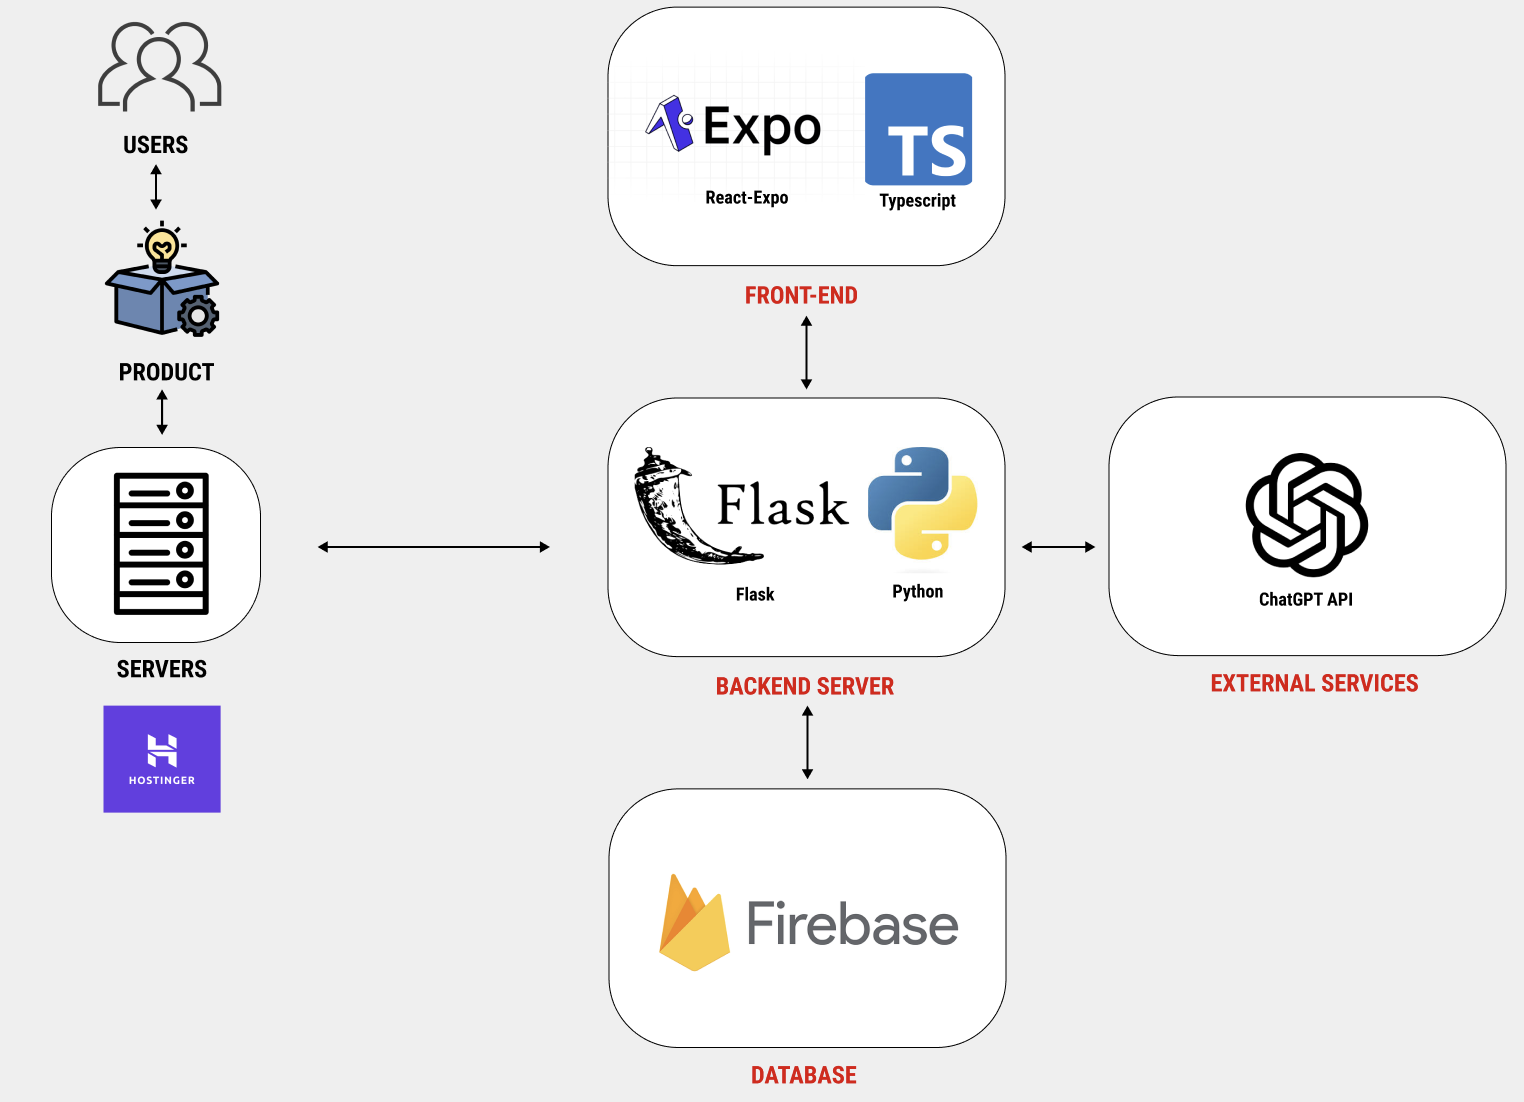
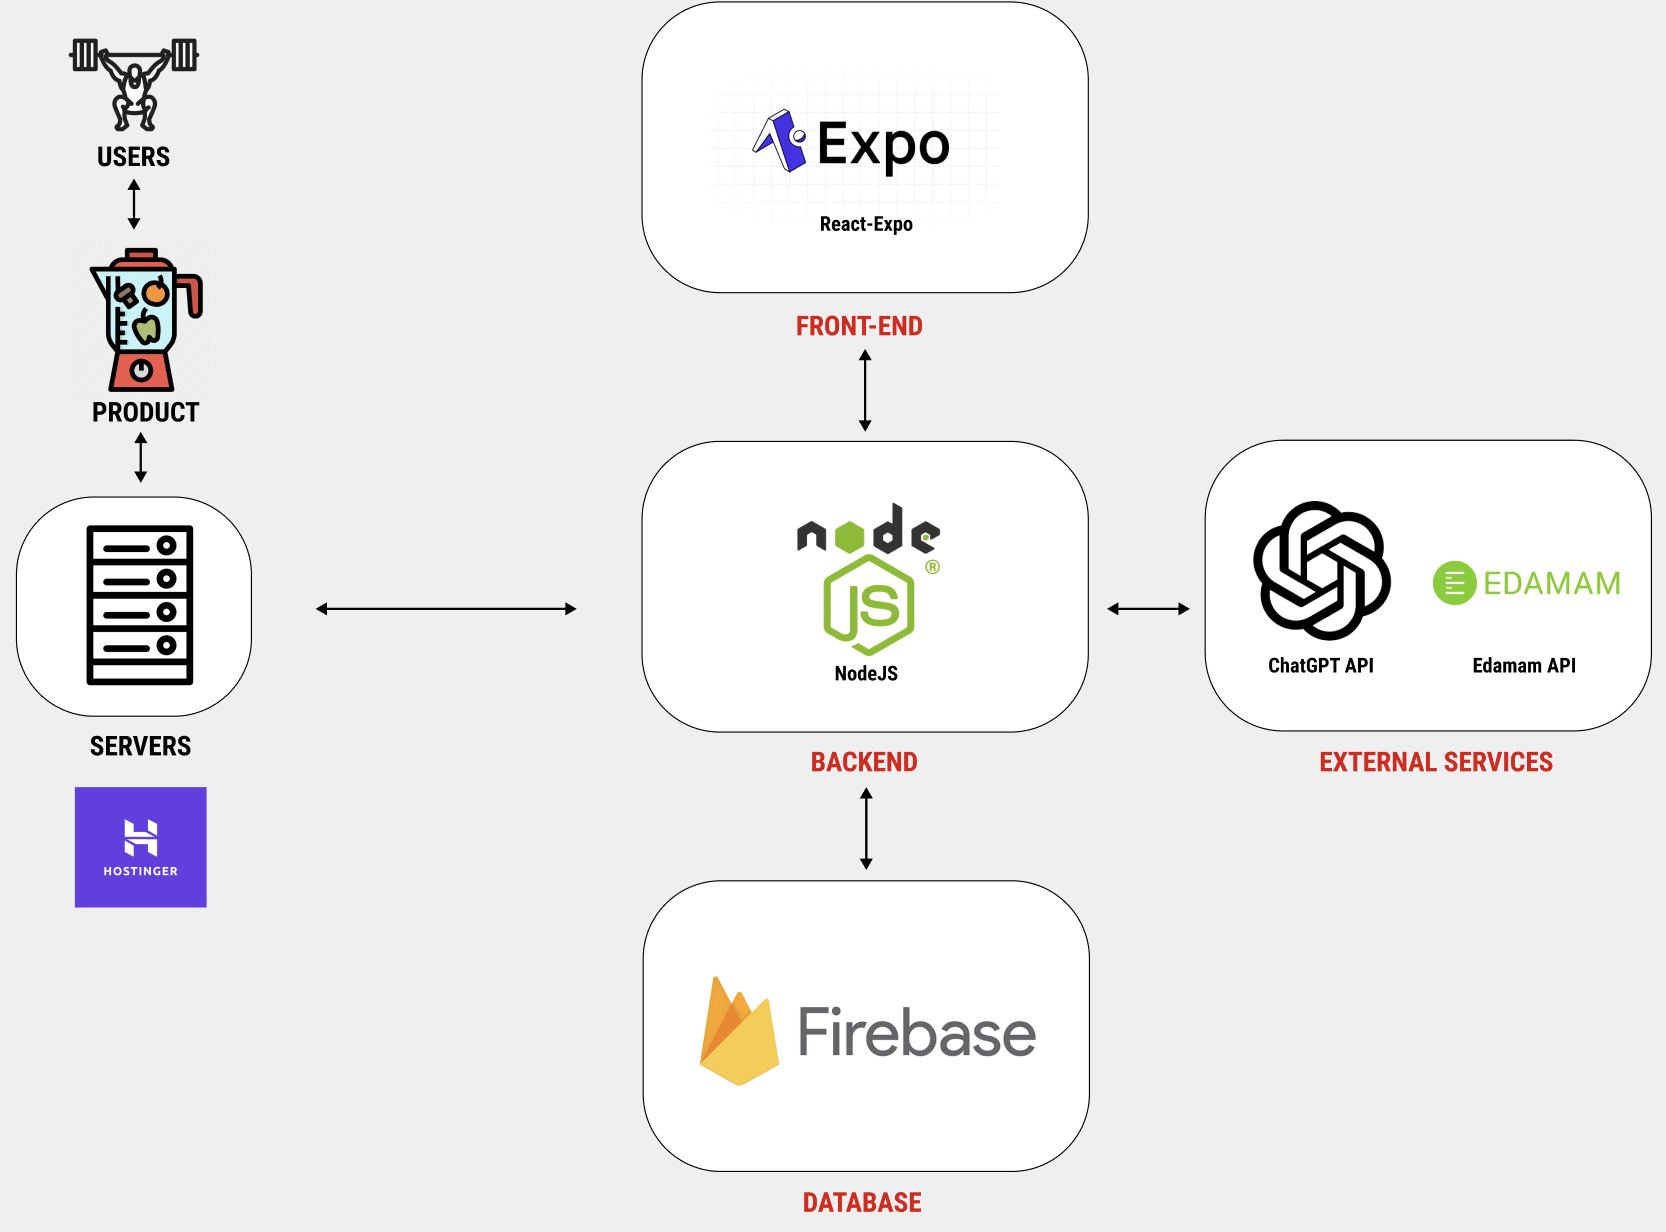
Updated Stealth experience

diff --git a/src/components/experiences/experiences_section.tsx b/src/components/experiences/experiences_section.tsx
@@ -6,7 +6,7 @@ const experienceItems = [
     title: "Stealth Startup",
     role: "Back End Developer",
     date: "June  2024 - Current",
-    description: "Developing MVP for a stealth startup, with a primary focus on backend architecture. Programmed front-end functionalities to make GET/POST requests to the Flask server, which has ChatGPT API and Firebase integration.",
+    description: "Developed an MVP for a stealth startup, primarily focusing on backend architecture. Implemented full CRUD functionalities within the application, enabling seamless management of data through NodeJS server. The backend was integrated with ChatGPT 's API for advanced smoothie personalization, Edamam's API for nutritional data, and Firebase for secure, real-time database storage and user authentication.",
     imageURL: "experiences/bonsai-architecture.png",
     websiteURL: "",
     videoURL: "",

diff --git a/src/components/skills/skills.tsx b/src/components/skills/skills.tsx
@@ -12,7 +12,8 @@ const languages = [
 const frameworks = [
     { name: 'Flask', imageUrl: 'frameworks/react.png' },
     { name: 'React', imageUrl: 'frameworks/flask.jpg' },
-    {name: 'NodeJS', imageUrl: 'frameworks/nodejs.png'}
+    {name: 'NodeJS', imageUrl: 'frameworks/nodejs.png'},
+    {name: 'Bootstrap', imageUrl: 'frameworks/bootstrap.svg'}
 ];
 
 const tools = [

diff --git a/src/components/skills/grid_section.css b/src/components/skills/grid_section.css
@@ -19,11 +19,11 @@
 }
 
 .grid-item {
+    display: flex;
+    flex-direction: column;
+    align-items: center;
     text-align: center;
-    width: 10vh;
-    height: 10vh;
-    max-width: 150px;
-    padding: 10px;
+    width: 100px;
     margin-bottom: 10px;
 }
 
